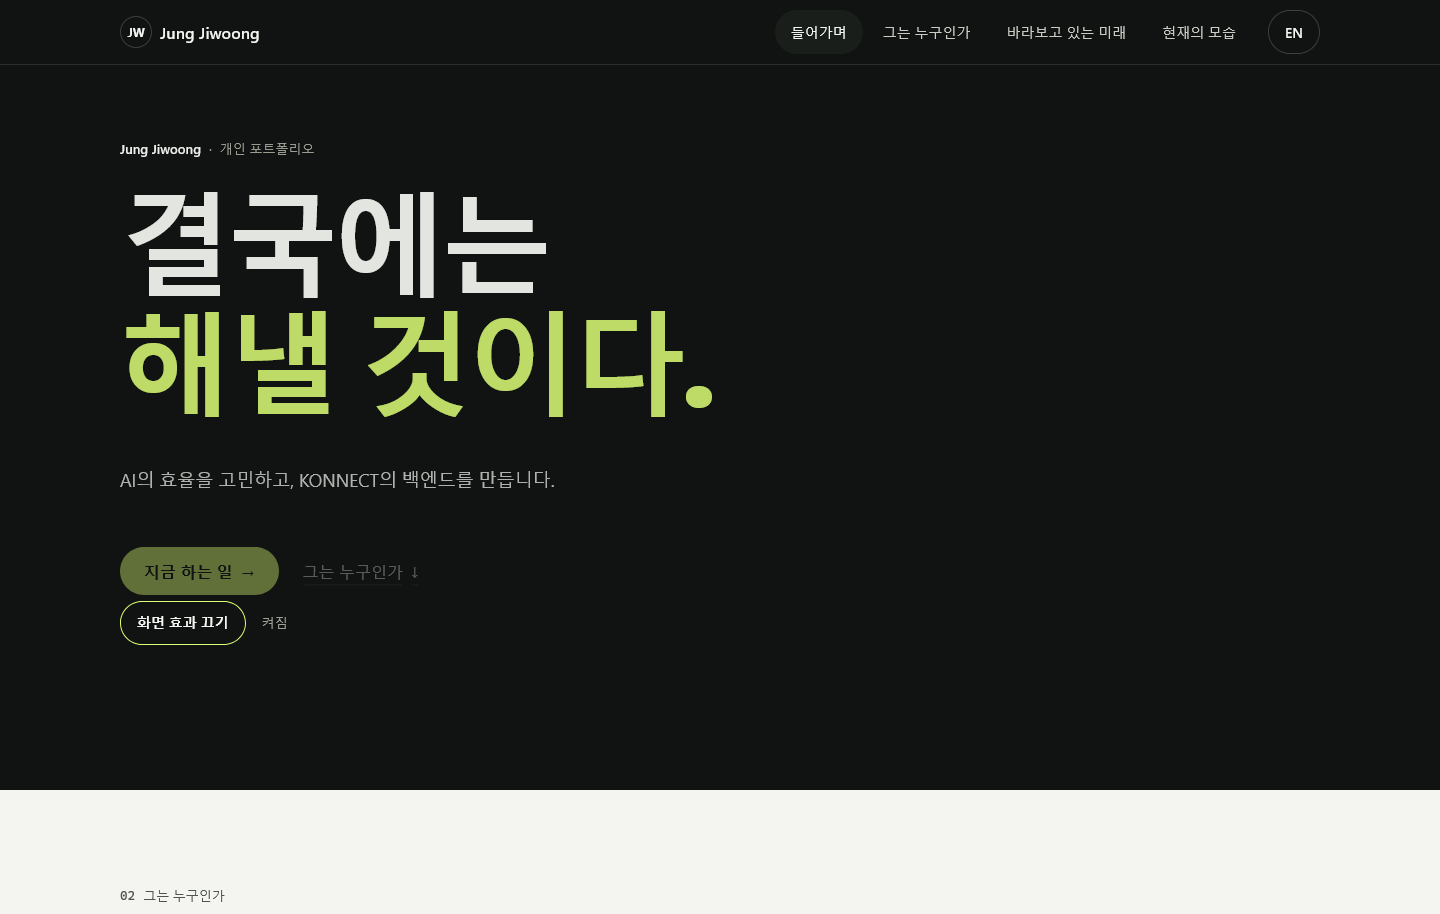
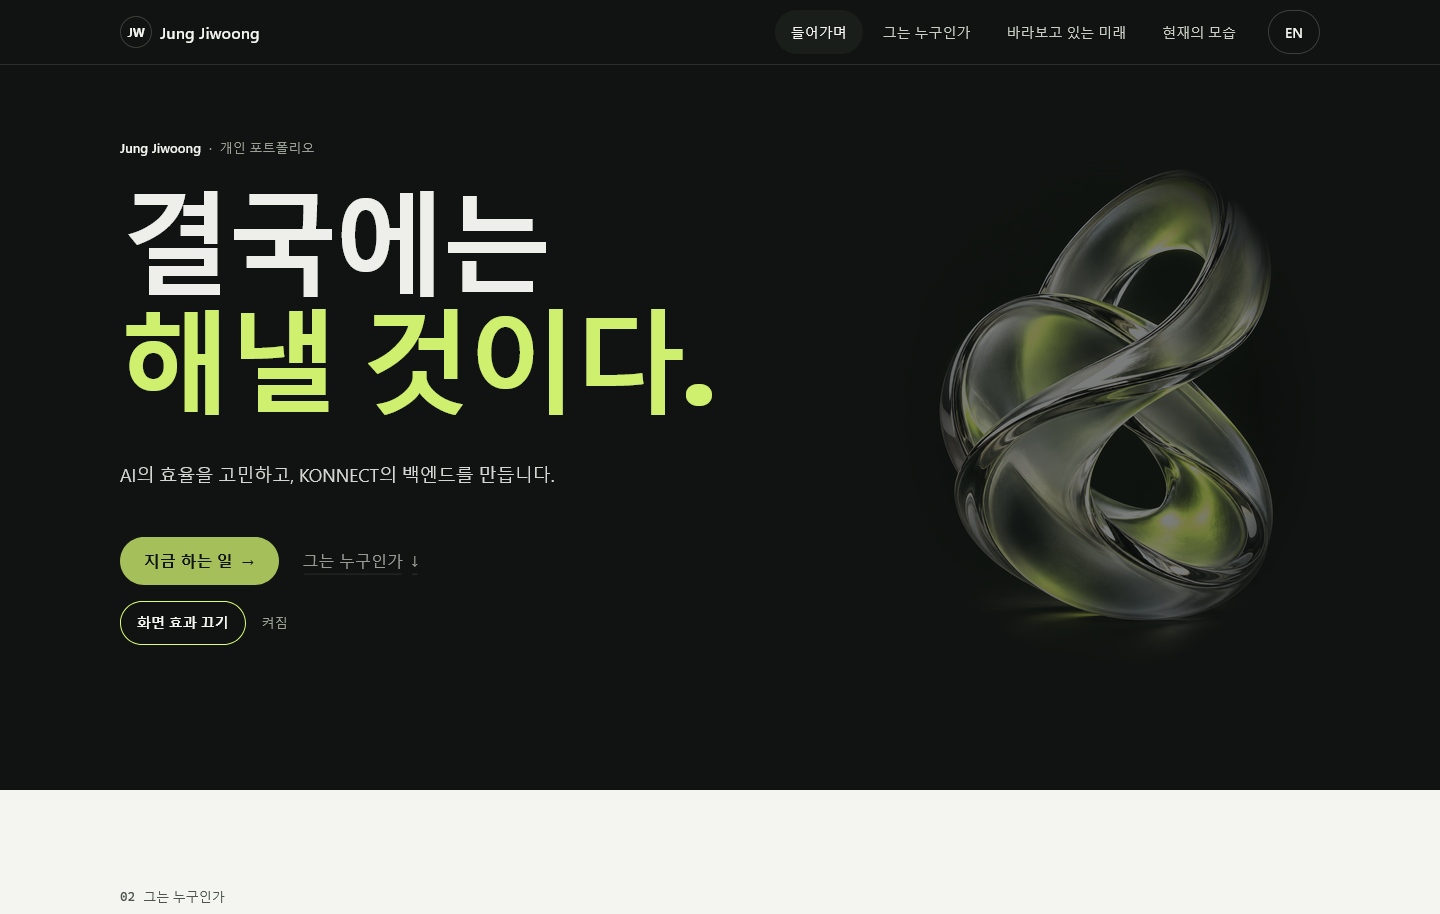
fix(T06/I014): replay intro entry and add direct motion preview

diff --git a/site/assets/js/portfolio.js b/site/assets/js/portfolio.js
@@ -64,6 +64,16 @@
   const reduce = matchMedia('(prefers-reduced-motion: reduce)');
   let pref = null;
   try { pref = localStorage.getItem(KEY); } catch {}
+  // Explicit preview link (?motion=on): opts in once, then the parameter is consumed.
+  try {
+    const url = new URL(location.href);
+    if (url.searchParams.get('motion') === 'on') {
+      pref = 'on';
+      try { localStorage.setItem(KEY, pref); } catch {}
+      url.searchParams.delete('motion');
+      history.replaceState(history.state, '', url);
+    }
+  } catch {}
   const wanted = () => pref === 'on' || (!reduce.matches && pref !== 'off');
   let motion = false;
 
@@ -105,7 +115,8 @@
   };
 
   const deep = byId(location.hash);
-  if (deep) reach(deep);
+  const introDeep = !!deep && deep.id === 'intro';
+  if (deep && !introDeep) reach(deep);
 
   document.addEventListener('click', e => {
     const a = e.target instanceof Element && e.target.closest('a[href*="#"]');
@@ -369,7 +380,7 @@
   // First entry plays the hero entrance, except on deep links.
   const heroPending = heroBlocks.filter(el => !seen.has(el));
   heroBlocks.forEach(el => seen.add(el));
-  if (motion && !deep) heroEntrance(heroPending);
+  if (motion && (!deep || introDeep)) heroEntrance(heroPending);
 
   // Later headings and paragraph groups enter once, as they are first reached.
   if ('IntersectionObserver' in window) {

diff --git a/scripts/progressive_qa.py b/scripts/progressive_qa.py
@@ -29,6 +29,7 @@ def main():
     for mode in ['no-javascript', 'reduced-motion', 'system-default']:
         options = Options()
         options.binary_location = 'C:/Program Files/Mozilla Firefox/firefox.exe'
+        options.page_load_strategy = 'eager'
         profile = ROOT / '.local' / ('firefox-' + mode + '-profile')
         profile.mkdir(exist_ok=True)
         for argument in ['-headless', '-profile', str(profile)]:
@@ -85,6 +86,7 @@ def main():
                   setting:document.documentElement.dataset.pfMotion,
                   stored:localStorage.getItem('pf-panel-motion')};''')
                 results.append({'mode': mode, 'passed': state['setting'] == ('off' if state['reduced'] else 'on'), 'state':state})
+            wait.until(lambda b:b.execute_script("return [...document.images].every(i=>i.complete && i.naturalWidth>0)"))
             driver.save_screenshot(str(output / (mode + '.png')))
             if mode == 'reduced-motion':
                 for language, suffix in [('ko',''),('en','en/')]:
@@ -123,6 +125,25 @@ def main():
                     footer.send_keys(Keys.ENTER)
                     off = driver.execute_script("return document.documentElement.dataset.pfMotion==='off' && [...document.querySelectorAll('[data-pf-panel]')].every(e=>getComputedStyle(e).position!=='sticky' && getComputedStyle(e).clipPath==='none') && document.getAnimations().every(a=>a.playState!=='running')")
                     results.append({'mode':language+'-keyboard-disable','passed':off})
+                    driver.get(base + suffix + '?v=entry&motion=on#intro')
+                    preview = driver.execute_script('''return {
+                      enabled:document.documentElement.dataset.pfMotion==='on',
+                      stored:localStorage.getItem('pf-panel-motion'),
+                      consumed:!new URL(location.href).searchParams.has('motion'),
+                      otherParam:new URL(location.href).searchParams.get('v'),hash:location.hash,
+                      entrances:document.getAnimations().filter(a=>a.effect.target.closest('#intro')).length};''')
+                    results.append({'mode':language+'-explicit-preview-at-intro',
+                                    'passed':preview['enabled'] and preview['stored']=='on' and preview['consumed'] and preview['otherParam']=='entry' and preview['hash']=='#intro' and preview['entrances']>=3,'state':preview})
+                    driver.refresh()
+                    refresh = driver.execute_script('''return {
+                      enabled:document.documentElement.dataset.pfMotion==='on',
+                      entrances:document.getAnimations().filter(a=>a.effect.target.closest('#intro')).length};''')
+                    results.append({'mode':language+'-intro-refresh-entrance',
+                                    'passed':refresh['enabled'] and refresh['entrances']>=3,'state':refresh})
+                    driver.find_element(By.CSS_SELECTOR, '#intro [data-pf-motion-toggle]').click()
+                    driver.refresh()
+                    stopped = driver.execute_script("return document.documentElement.dataset.pfMotion==='off' && localStorage.getItem('pf-panel-motion')==='off' && document.getAnimations().every(a=>a.playState!=='running')")
+                    results.append({'mode':language+'-preview-stop-survives-refresh','passed':stopped})
                 driver.execute_script("localStorage.removeItem('pf-panel-motion')")
         finally:
             driver.quit()

diff --git a/docs/issues/I014.md b/docs/issues/I014.md
@@ -1,9 +1,11 @@
 # I014 — #intro로 접속하면 첫 화면의 글 등장이 생략됨
 
-상태: 재현·수정 전. 2026-11-04 KST.
+상태: 수정·입장 조건 재검증 완료. 2026-11-04 KST. 수정 전 기록: `d5c602f`.
 
 사용자의 반복된 “똑같아” 보고 후 공개 주소에서 별도 Firefox 프로필로 확인했다. 사이트 효과를 켜고 즉시 조회한 결과 일반 루트는 hero 애니메이션 7개, `#intro`와 `#current`는 0개였다. 세 경우 모두 `data-pf-motion=on`이었다. `#current`의 생략은 읽는 목적지를 우선하는 의도된 동작이지만, 첫 화면 자체인 `#intro`까지 생략한 것은 접속 시 순차 등장 요구와 맞지 않는다. 아직 사용자 접속 주소 답변이 없어 이번 사용자 현상의 직접 원인이라고 단정하지 않는다.
 
 원인: 모든 초기 hash를 deep 링크로 취급해 reach()에서 hero를 이미 본 것으로 표시하고, hero 시작 조건에서도 제외했다. 수정은 #intro만 정상 첫 화면으로 취급하고 실제 본문 목적지의 즉시 가독성은 유지한다.
 
 추가 개선: 앞선 안내는 첫 화면 버튼을 눌러야 효과가 보이는 경로였다. 명시적으로 효과를 보겠다는 접속 링크 `?motion=on`을 제공해 해당 링크에서는 기기 설정이나 이전 사이트 off 선택 때문에 효과가 가려지지 않게 한다. 사이트 선택만 저장하고 query는 현재 history 항목에서 소비해 지운다. 이후 끄기와 새로고침 선택을 존중하며 운영체제 설정은 변경하지 않는다. 일반 접속의 모션 축소 초기 비활성은 유지한다.
+
+Claude Code가 기존 JS 한 파일에서 #intro의 초기 reach 제외와 시작 조건, 명시적 링크 처리만 수정했다. HTML·CSS·기존 패널 형상·모바일 메뉴는 변경하지 않았다. Codex가 빌드·정적 검사와 확장한 점진적 향상 17개 검사를 통과했다. 두 언어에서 모션 축소 상태의 `?v=entry&motion=on#intro`는 hero 애니메이션 7개를 시작했고 v·hash는 보존하며 motion만 소비했다. 같은 #intro 새로고침에서도 7개였고 끈 뒤 새로고침에서는 off를 유지했다. 기존 본문 직접 링크 가독성은 별도 Firefox 검사로 확인한다. 사용자 접속 주소는 아직 확인하지 못했으므로 사용자 현상과의 동일 원인을 단정하지 않는다.

diff --git a/docs/ai/usage.md b/docs/ai/usage.md
@@ -32,6 +32,11 @@
 - 실제 CLI 입력 발췌: “Respect system reduced motion by default, but allow EXPLICIT site-level opt-in” / “Factor hero entrance into reusable function”. 기존 세 프론트 파일만 수정하도록 제한했다. 응답은 첫 화면·하단 제어 동기화, 사이트 내 명시적 켜기, 850ms·120ms 등장 재생을 구현하고 미검사임을 밝혔다.
 - Codex가 diff·한국어 문구를 검토하고 Hugo 빌드·정적 검사·기존 Firefox 55개 검사·점진적 향상 11개 검사를 수행했다. 기본 모션 설정을 강제로 바꾸지 않는 검사와 두 언어의 실제 겹침을 추가했다. 기기 설정은 변경하지 않았다. 사용자의 디자인 만족이나 실제 iPhone 검증으로 기록하지 않는다.
 
+## 사례 G — #intro 진입과 명시적 재생 링크
+
+- 2026-11-04 KST, Claude Code 2.1.287, claude-opus-5-5. 사용자 원문 “똑같아”. Codex가 효과 on 상태의 루트·#intro 첫 진입을 비교해 애니메이션 7개·0개를 확인했다(I014). 사용자 주소는 아직 미확인이다.
+- 실제 CLI 입력: “Treat initial #intro as first-screen entrance” / “Add explicit preview URL support ?motion=on”. 기존 JS만 수정하도록 제한했다. Claude는 수정 내용을 설명하고 미검사임을 밝혔다. Codex가 build와 정적 검사, 두 언어 진입·새로고침·선택 유지 검사를 수행했다. 실제 결과는 progressive/results.json에 보존한다. 새 framework·폴더·콘텐츠는 추가하지 않았다.
+
 ## 사례 B — HugoBlox 프론트 구현
 
 - 도구: Claude Code 2.1.287, 실제 응답의 modelUsage: claude-opus-5-5.

diff --git a/docs/tasks/T06.md b/docs/tasks/T06.md
@@ -2,6 +2,10 @@
 
 상태: 두 언어·메뉴·키보드·폭·확대 로컬 검사 통과.
 
+## 첫 화면 주소와 즉시 재생 링크 — 2026-11-04 KST
+
+I014에서 #intro 접속이 첫 화면의 등장을 생략하는 것을 재현하고 수정했다. 명시적 `?motion=on` 링크는 효과를 켜고 해당 매개변수만 history에서 소비한다. 끈 뒤 새로고침해도 꺼진 선택을 유지한다. 본문 직접 링크는 즉시 읽을 수 있고 일반 주소는 기존 시스템 모션 축소 설정을 따른다. 한국어·영어의 첫 접속·#intro 새로고침·끄기 유지 조건을 추가하여 점진적 향상 검사는 17개다.
+
 ## 기본 설정에서 효과가 안 보이는 문제 — 2026-11-04 KST
 
 사용자의 “동일한데 변한게 없어” 이후 강제 모션 설정을 제거한 Firefox에서 실제 reduced=true·효과 off를 확인했다(I013). 기존 하단 버튼이 시스템 모션 축소 때 켜기를 막던 문제를 수정했다. 첫 화면에도 같은 버튼을 제공하고 사용자의 명시적 선택을 허용한다. 초기 상태는 시스템을 따르며 시스템 설정을 직접 바꾸지 않는다. 켜기 즉시 첫 화면을 850ms·120ms 간격으로 재생하며 두 제어의 상태가 동기화된다. 기존 55개와 확장한 점진적 향상 11개 검사가 통과했다.

diff --git a/docs/verification.md b/docs/verification.md
@@ -1,5 +1,9 @@
 # 실제 기능 검증
 
+## #intro 등장과 직접 재생 링크 — 2026-11-04 KST
+
+I014 수정 전 공개 페이지는 효과 on에서도 루트 7개, #intro 0개의 hero 애니메이션을 보였다. #intro를 첫 화면으로 취급하고 명시적 `?motion=on` 링크를 추가했다. 빌드와 두 언어 정적 검사, 점진적 향상 17개 검사가 통과했다. 모션 축소 상태에서도 명시적 링크에서 7개 시작·다른 매개변수와 hash 유지·motion 소비·#intro 새로고침 시 7개·끄기 후 새로고침 유지가 확인됐다. 일반 접속 모션 축소·실제 패널 겹침·키보드 제어도 유지한다. 사용자 접속 주소는 아직 미확인이며 이 오류를 사용자 현상 전체의 원인으로 단정하지 않는다.
+
 ## 기본 시스템 모션 설정과 명시적 켜기 — 2026-11-04 KST
 
 I013: 강제 모션 설정이 없는 Firefox에서 공개 페이지의 reduced=true, 사이트 선택 null, 효과 off, 준비 패널 0을 재현했다. 이전 일반 검사는 reduced=0을 강제해 이 사용 조건을 놓쳤다. Claude Code가 첫 화면 제어·명시적 사이트 선택·두 버튼 동기화·켜기 즉시 등장 재생을 구현했다. 초기 동작 줄이기 요청은 계속 존중하며 시스템 변경 시 사이트 override를 초기화한다.
